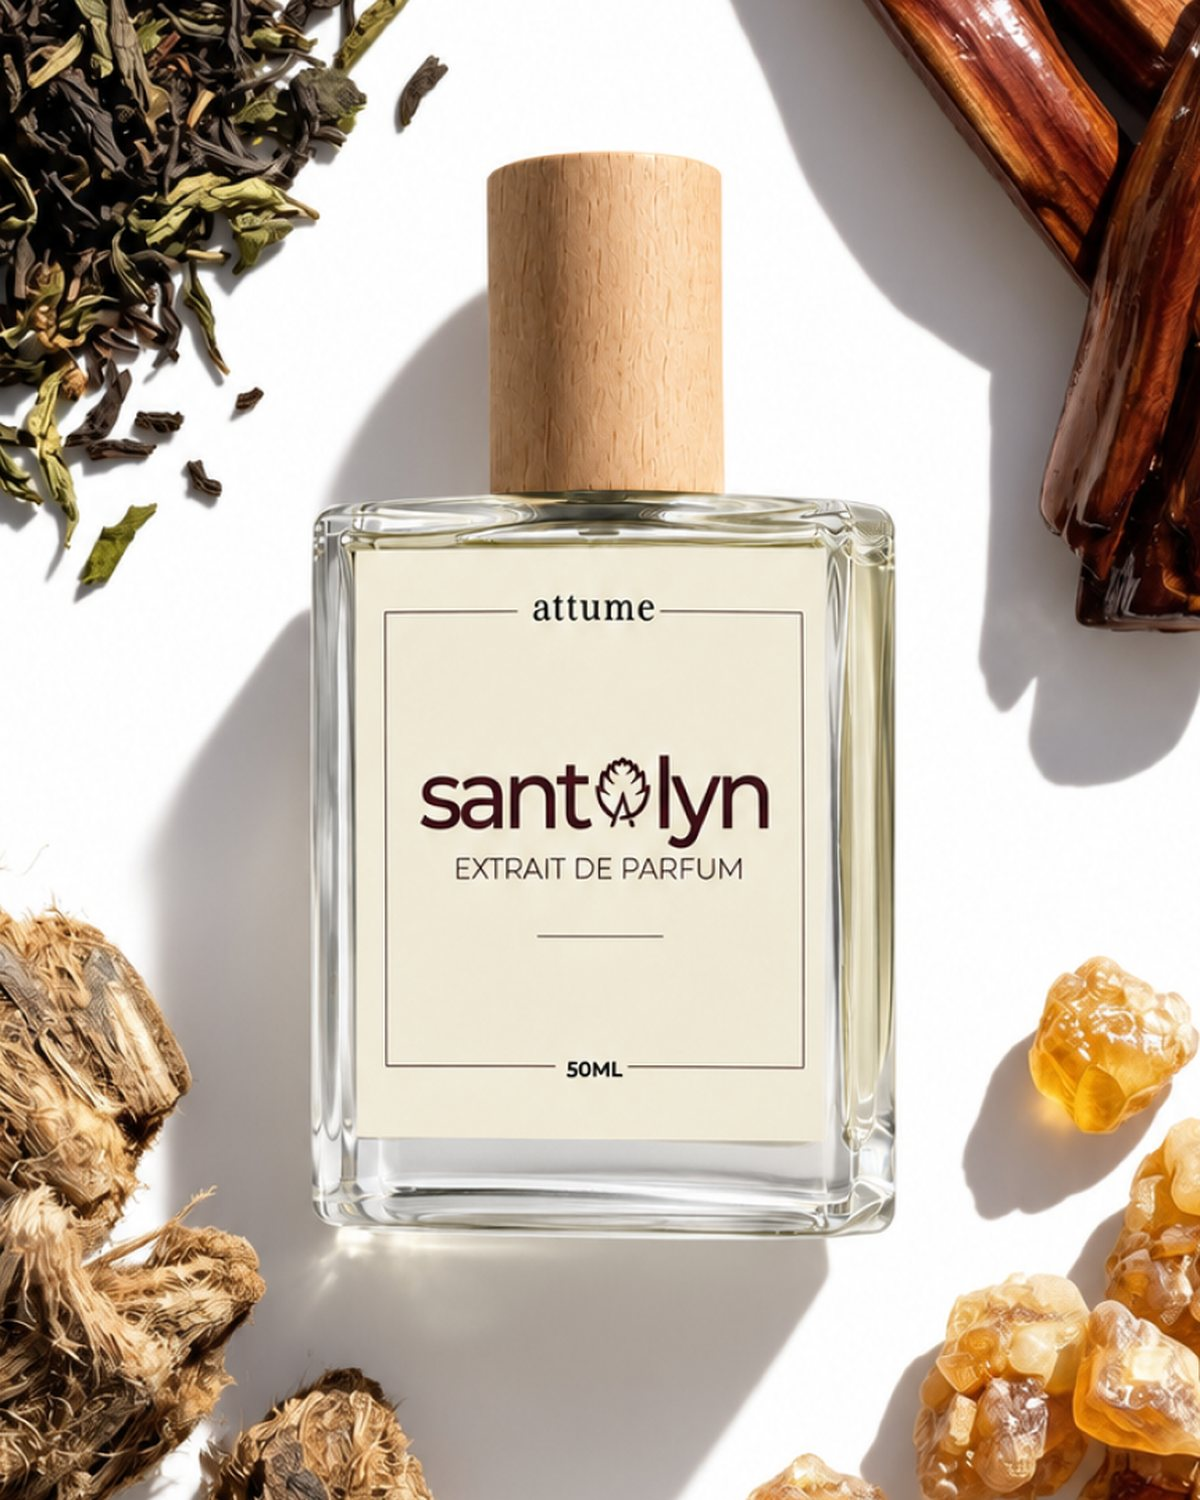
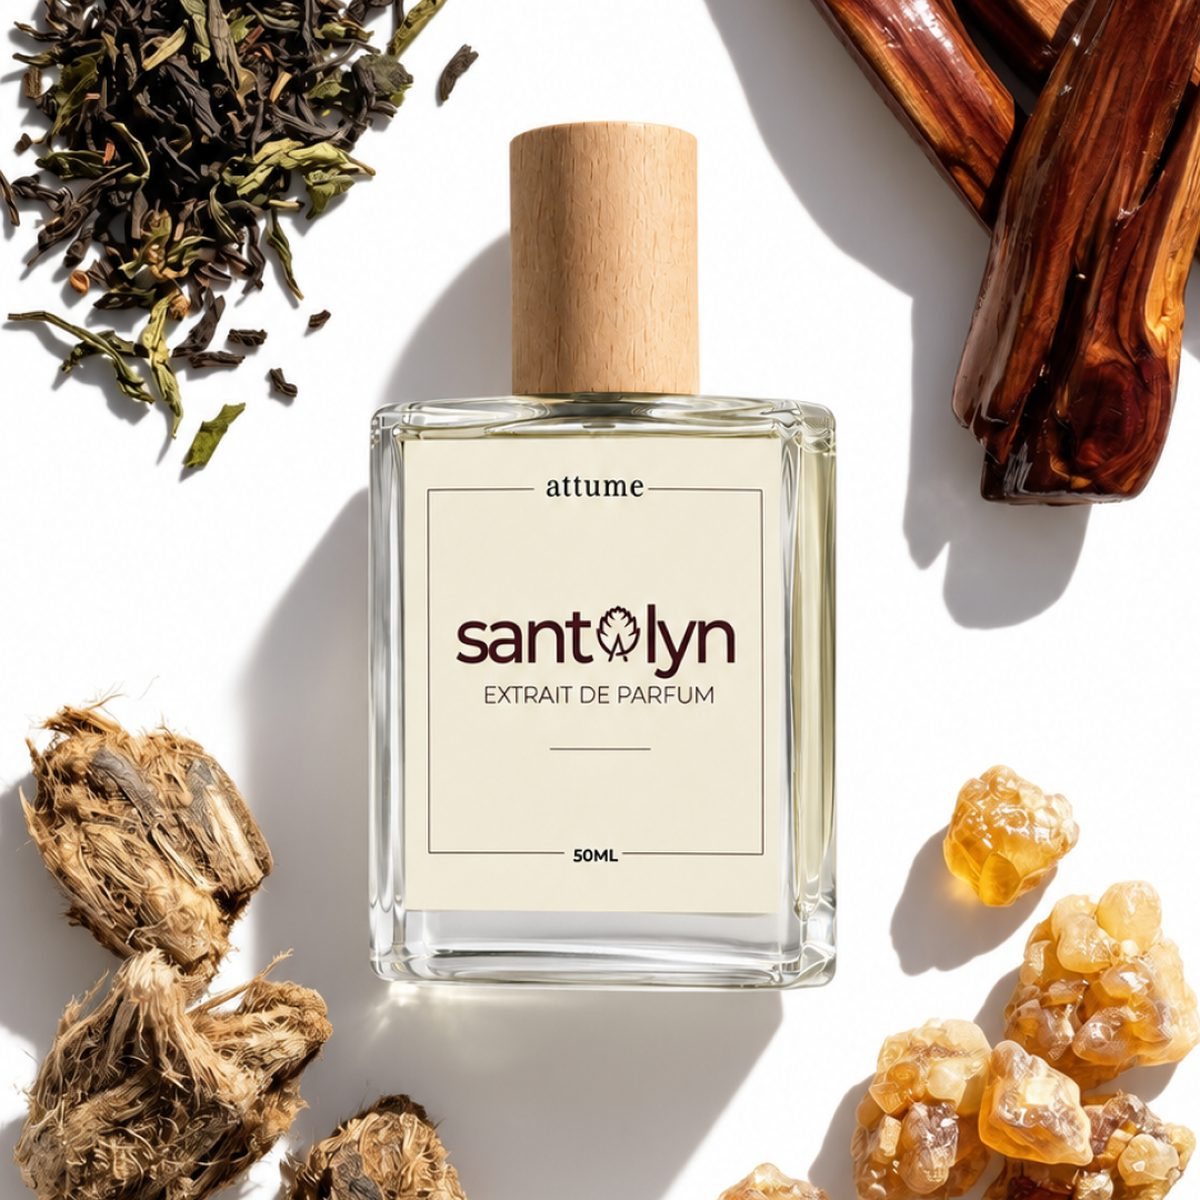
feat: new atolis photograph, and a square frame to show it whole
The replacement shot is square and its composition bleeds to all four
edges — citrus at the top, blossom at the foot. A 4:5 frame could only
show it by cropping, and padding it to fit would have left white bands
across content that runs to the edge.

So the frame follows the photography instead: product images are square
on the cards and in the gallery, which both shots already are at source.
Santalyn is re-exported square as well, recovering the outer margin that
its earlier 4:5 crop cut away. Neither is cropped now.

diff --git a/frontend/src/components/home/ProductCard.tsx b/frontend/src/components/home/ProductCard.tsx
@@ -37,7 +37,7 @@ export function ProductCard({ product }: { product: Product }) {
   return (
     <article className="group flex h-full flex-col">
       <Link href={`/products/${product.slug}`} className="block">
-        <div className="relative aspect-[4/5] overflow-hidden bg-ivory-soft">
+        <div className="relative aspect-square overflow-hidden bg-ivory-soft">
           <ProductImage
             product={product}
             className="transition-transform duration-700 group-hover:scale-[1.03]"

diff --git a/frontend/src/components/product/ProductImage.tsx b/frontend/src/components/product/ProductImage.tsx
@@ -24,8 +24,8 @@ export function ProductImage({
         src={image.url}
         alt={image.alt ?? product.name}
         fill
-        // Cards sit at roughly a quarter width on desktop, full width on phones.
-        sizes="(min-width: 1024px) 25vw, (min-width: 640px) 50vw, 100vw"
+        // Cards sit at roughly a third width on desktop, full width on phones.
+        sizes="(min-width: 1024px) 33vw, (min-width: 640px) 50vw, 100vw"
         className={cn('object-cover', className)}
       />
     );

diff --git a/frontend/src/components/product/ProductGallery.tsx b/frontend/src/components/product/ProductGallery.tsx
@@ -66,7 +66,7 @@ export function ProductGallery({ product }: { product: Product }) {
         ))}
       </div>
 
-      <div className="relative aspect-[4/5] flex-1 overflow-hidden border border-line bg-[linear-gradient(160deg,#fcfaf2_0%,#efe9d4_100%)]">
+      <div className="relative aspect-square flex-1 overflow-hidden border border-line bg-[linear-gradient(160deg,#fcfaf2_0%,#efe9d4_100%)]">
         {current.kind === 'image' && (
           <button
             type="button"
